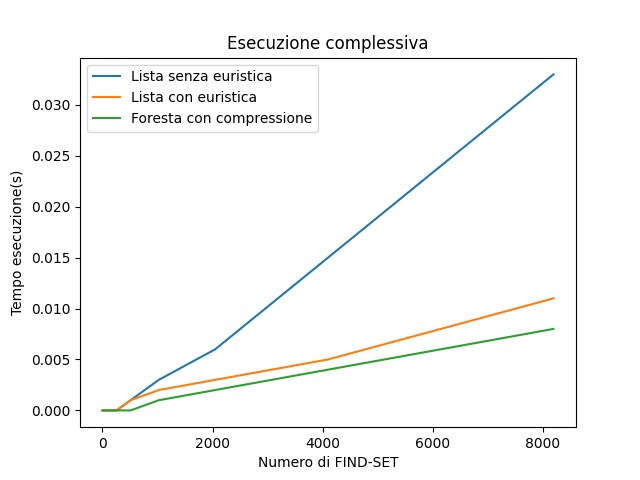
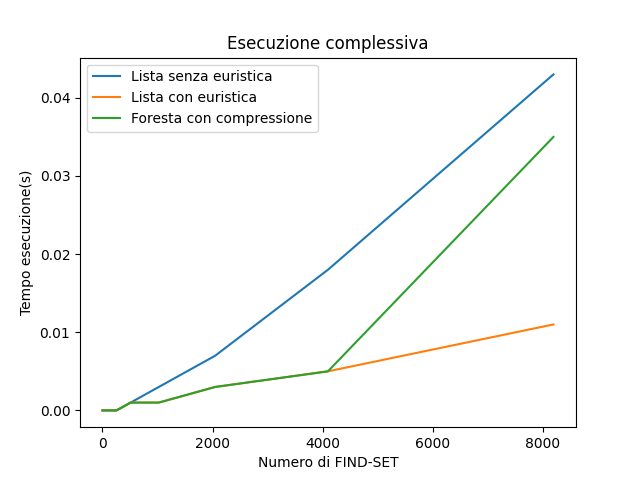
FINITO

diff --git a/Plot.py b/Plot.py
@@ -2,15 +2,15 @@ import matplotlib.pyplot as plt
 
 
 class Plot:
-    def __init__(self, timeChainNoEuristic, timeChainEuristic, timeTree, n):
-        self.timeChainNoEuristic = timeChainNoEuristic
-        self.timeChainEuristic = timeChainEuristic
+    def __init__(self, timeChainNoHeuristics, timeChainHeuristics, timeTree, n):
+        self.timeChainNoHeuristics = timeChainNoHeuristics
+        self.timeChainHeuristics = timeChainHeuristics
         self.timeTree = timeTree
         self.n = n
 
     def plotAll(self):
-        plt.plot(self.n, self.timeChainNoEuristic, label='Lista senza euristica')
-        plt.plot(self.n, self.timeChainEuristic, label='Lista con euristica')
+        plt.plot(self.n, self.timeChainNoHeuristics, label='Lista senza euristica')
+        plt.plot(self.n, self.timeChainHeuristics, label='Lista con euristica')
         plt.plot(self.n, self.timeTree, label='Foresta con compressione')
         plt.xlabel('Numero di FIND-SET')
         plt.ylabel('Tempo esecuzione(s)')
@@ -19,7 +19,7 @@ class Plot:
         plt.savefig('plotAll.png')
         plt.show()
     def plotChainNoHeuristics(self):
-        plt.plot(self.n, self.timeChainNoEuristic, label='Lista senza euristica')
+        plt.plot(self.n, self.timeChainNoHeuristics, label='Lista senza euristica')
         plt.xlabel('Numero di FIND-SET')
         plt.ylabel('Tempo esecuzione(s)')
         plt.title("Esecuzione della lista concatenata senza euristica")
@@ -27,7 +27,7 @@ class Plot:
         plt.savefig('plotChainNoHeuristics.png')
         plt.show()
     def plotChainHeuristics(self):
-        plt.plot(self.n, self.timeChainEuristic, label='Lista con euristica')
+        plt.plot(self.n, self.timeChainHeuristics, label='Lista con euristica')
         plt.xlabel('Numero di FIND-SET')
         plt.ylabel('Tempo esecuzione(s)')
         plt.title("Esecuzione della lista concatenata con euristica")

diff --git a/main.py b/main.py
@@ -13,7 +13,7 @@ n = []
 
 
 #Lista concatenata senza euristica
-for i in range(1,11):
+for i in range(1,15):
     numElement = (int)(math.pow(2, i))
     n.append(numElement)
     elements = []
